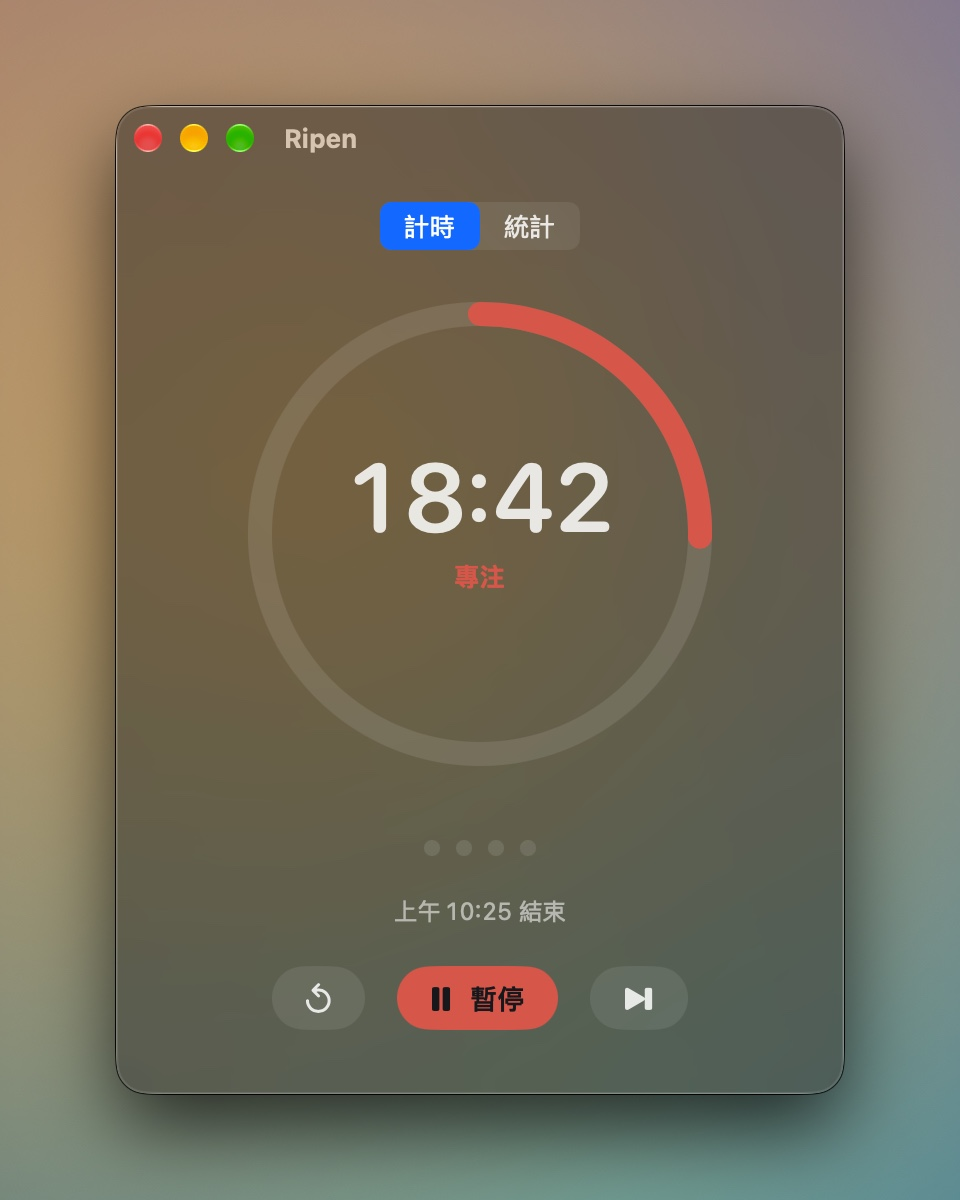
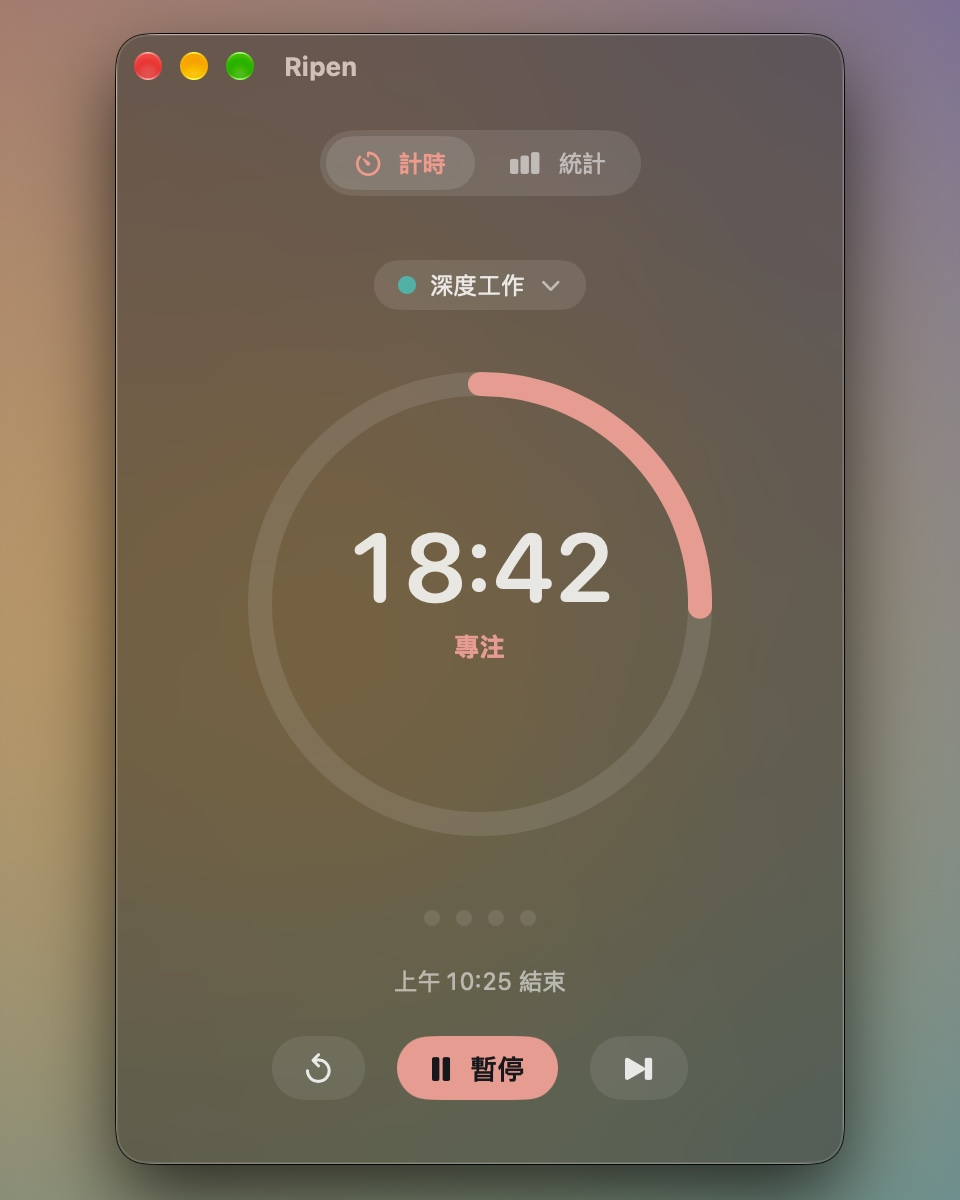
docs: redesign README showcases and publish updated website

diff --git a/scripts/generate-readme-assets.swift b/scripts/generate-readme-assets.swift
@@ -1,0 +1,101 @@
+#!/usr/bin/env swift
+import AppKit
+
+// 只裁切真實截圖的背景並排版，保留介面與成果卡原貌；不依賴拍攝副本。
+let root = URL(fileURLWithPath: #filePath).deletingLastPathComponent().deletingLastPathComponent()
+let paper = NSColor(srgbRed: 0.94, green: 0.95, blue: 0.93, alpha: 1)
+let ink = NSColor(srgbRed: 0.15, green: 0.24, blue: 0.20, alpha: 1)
+let muted = NSColor(srgbRed: 0.37, green: 0.44, blue: 0.40, alpha: 1)
+
+func load(_ path: String, crop: CGRect? = nil) throws -> NSImage {
+    let url = root.appendingPathComponent(path)
+    guard let source = NSImage(contentsOf: url),
+          let cgImage = source.cgImage(forProposedRect: nil, context: nil, hints: nil),
+          let pixels = crop.map({ cgImage.cropping(to: $0) }) ?? cgImage else {
+        throw NSError(domain: "ReadmeAssets", code: 1, userInfo: [NSLocalizedDescriptionKey: "無法讀取圖片：\(path)"])
+    }
+    return NSImage(cgImage: pixels, size: NSSize(width: pixels.width, height: pixels.height))
+}
+
+func text(_ string: String, _ x: CGFloat, _ y: CGFloat, size: CGFloat, color: NSColor = ink) {
+    (string as NSString).draw(at: NSPoint(x: x, y: y), withAttributes: [
+        .font: NSFont.systemFont(ofSize: size, weight: .medium), .foregroundColor: color
+    ])
+}
+
+// 對每張來源維持等比縮放，圓角只沿真實視窗邊界裁切。
+func place(_ source: NSImage, x: CGFloat, y: CGFloat, width: CGFloat, radius: CGFloat, attachedToTop: Bool = false) {
+    let rect = NSRect(x: x, y: y, width: width, height: width * source.size.height / source.size.width)
+    NSGraphicsContext.saveGraphicsState()
+    let shape = NSBezierPath(roundedRect: rect, xRadius: radius, yRadius: radius)
+    if attachedToTop {
+        shape.appendRect(NSRect(x: rect.minX, y: rect.minY, width: rect.width, height: rect.height / 2))
+    }
+    let shadow = NSShadow()
+    shadow.shadowColor = NSColor.black.withAlphaComponent(0.14)
+    shadow.shadowBlurRadius = 24
+    shadow.shadowOffset = NSSize(width: 0, height: 10)
+    shadow.set()
+    NSColor.white.setFill()
+    shape.fill()
+    NSGraphicsContext.restoreGraphicsState()
+    NSGraphicsContext.saveGraphicsState()
+    shape.addClip()
+    source.draw(in: rect, from: .zero, operation: .sourceOver, fraction: 1, respectFlipped: true, hints: nil)
+    NSGraphicsContext.restoreGraphicsState()
+}
+
+func render(_ name: String, language: String, height: Int, draw: () throws -> Void) throws {
+    let bitmap = NSBitmapImageRep(bitmapDataPlanes: nil, pixelsWide: 1600, pixelsHigh: height,
+                                  bitsPerSample: 8, samplesPerPixel: 4, hasAlpha: true,
+                                  isPlanar: false, colorSpaceName: .deviceRGB, bytesPerRow: 0, bitsPerPixel: 0)!
+    NSGraphicsContext.saveGraphicsState()
+    let context = NSGraphicsContext(bitmapImageRep: bitmap)!
+    context.cgContext.translateBy(x: 0, y: CGFloat(height))
+    context.cgContext.scaleBy(x: 1, y: -1)
+    NSGraphicsContext.current = NSGraphicsContext(cgContext: context.cgContext, flipped: true)
+    NSGraphicsContext.current!.imageInterpolation = .high
+    paper.setFill()
+    NSRect(x: 0, y: 0, width: 1600, height: height).fill()
+    try draw()
+    NSGraphicsContext.restoreGraphicsState()
+    let path = "docs/images/\(language)/\(name).png"
+    try bitmap.representation(using: .png, properties: [:])!.write(to: root.appendingPathComponent(path))
+    print(path)
+}
+
+for language in ["en", "zh-Hant"] {
+    let prefix = "docs/images/\(language)"
+    let window = CGRect(x: 115, y: 33, width: 730, height: 1132)
+    let main = try load("\(prefix)/main-white.jpg", crop: window)
+    let floating = try load("\(prefix)/floating-medium.jpg", crop: CGRect(x: 160, y: 160, width: 560, height: 320))
+    let notch = try load("\(prefix)/notch-expanded.jpg", crop: CGRect(x: 440, y: 0, width: 720, height: 312))
+    try render("presentation", language: language, height: 1000) {
+        text("A little space for focus.", 80, 52, size: 54)
+        place(main, x: 112, y: 176, width: 470, radius: 24)
+        text("Main window", 112, 930, size: 28, color: muted)
+        text("Notch island", 865, 178, size: 28, color: muted)
+        place(notch, x: 865, y: 232, width: 560, radius: 40, attachedToTop: true)
+        text("Floating window", 865, 540, size: 28, color: muted)
+        place(floating, x: 865, y: 594, width: 560, radius: 50)
+    }
+    let stats = try load("\(prefix)/stats.jpg", crop: window)
+    let detail = try load("\(prefix)/project-detail.jpg", crop: window)
+    try render("projects", language: language, height: 1140) {
+        text("See where your time goes.", 80, 52, size: 54)
+        text("Your week", 136, 156, size: 30, color: muted)
+        place(stats, x: 136, y: 212, width: 530, radius: 26)
+        text("Your project", 870, 226, size: 30, color: muted)
+        place(detail, x: 870, y: 282, width: 470, radius: 24)
+    }
+    let web = language == "en" ? "website/assets/en" : "website/assets"
+    let square = try load("\(web)/recap-square.png")
+    let portrait = try load("\(web)/recap-portrait.png")
+    try render("recap-layouts", language: language, height: 1040) {
+        text("Time well spent, made into a card.", 80, 52, size: 54)
+        place(square, x: 110, y: 260, width: 660, radius: 12)
+        place(portrait, x: 1010, y: 180, width: 420, radius: 12)
+        text("Square · 1:1", 110, 956, size: 30, color: muted)
+        text("Portrait · 9:16", 1010, 956, size: 30, color: muted)
+    }
+}

diff --git a/website/index.html b/website/index.html
@@ -77,6 +77,29 @@
       </div>
     </section>
 
+    <section class="project-gallery wrap section-space" aria-labelledby="projects-title">
+      <div class="project-story">
+        <div class="story-copy">
+          <h2 id="projects-title">每一段投入，<br>都看得見。</h2>
+          <p>工作、閱讀，或正在學的新事物。把專注分給不同分類，看看這一週，時間花在哪裡。</p>
+          <p>今天的投入、七天的節奏、一路累積的時間，都留在你的 Mac。</p>
+        </div>
+        <div class="statistics-scene"><img src="assets/stats.jpg" data-src-en="assets/en/stats.jpg" width="960" height="1200" loading="lazy" alt="分類統計：依代表色呈現最近七天的專注；展示資料"></div>
+      </div>
+      <div class="recap-story">
+        <div class="recap-scene" aria-label="方形與直式成果卡">
+          <img class="recap-square" src="assets/recap-square.png" data-src-en="assets/en/recap-square.png" width="1080" height="1080" loading="lazy" alt="方形分類成果卡；展示資料">
+          <img class="recap-portrait" src="assets/recap-portrait.png" data-src-en="assets/en/recap-portrait.png" width="1080" height="1920" loading="lazy" alt="直式分類成果卡；展示資料">
+        </div>
+        <div class="story-copy">
+          <h2>把累積，<br>留成一張卡。</h2>
+          <p>一個分類，一張成果卡。把持續投入的時間，存成自己看得見的成果。</p>
+          <p>選方形或直式，存成圖片、複製，或透過系統分享選單傳出去。</p>
+        </div>
+      </div>
+      <p class="gallery-note">畫面中的分類與專注紀錄為展示資料。</p>
+    </section>
+
     <section class="download-section wrap" id="download" aria-labelledby="download-title">
       <div><img class="download-icon" src="assets/app-icon.png" alt="" width="80" height="80" loading="lazy"><h2 id="download-title">下一段專注，<br>留給 Ripen。</h2><p>免費使用，不需要帳號。<br>如果它剛好幫上忙，再請我喝杯咖啡。</p></div>
       <div class="download-info"><div class="download-status"><span aria-hidden="true"></span>Mac 版現已開放下載</div><p>下載後打開 DMG，將 Ripen 拖進「應用程式」。<br>安裝後可從 App 選單手動檢查更新。</p><a class="button button-primary" href="https://github.com/latteine1217/ripen/releases/download/v0.2.0/Ripen-0.2.0.dmg">下載 Ripen 0.2.0</a><dl><div><dt>適用系統</dt><dd>macOS 14 Sonoma 以上</dd></div><div><dt>支援晶片</dt><dd>Apple silicon 與 Intel</dd></div><div><dt>介面語言</dt><dd>繁體中文、English</dd></div></dl><p class="install-note">目前版本尚未經 Apple 公證。首次開啟可能需要到「系統設定 › 隱私權與安全性」允許開啟。</p><p class="install-note"><a href="https://github.com/latteine1217/ripen/releases">查看所有版本與更新說明</a></p></div>

diff --git a/website/script.js b/website/script.js
@@ -1,5 +1,19 @@
 // 保留原始文字節點，切換語言時不重建連結、圖示或互動元件。
 const englishTranslations = new Map(Object.entries({
+  "每一段投入，": "See the time",
+  "都看得見。": "you put in.",
+  "工作、閱讀，或正在學的新事物。把專注分給不同分類，看看這一週，時間花在哪裡。": "Work, reading, or something you’re learning. Give each focus a project, and see where your time went this week.",
+  "今天的投入、七天的節奏、一路累積的時間，都留在你的 Mac。": "Today’s effort, your weekly rhythm, and all the time you’ve put in. Kept on your Mac.",
+  "把累積，": "Time well spent,",
+  "留成一張卡。": "made into a card.",
+  "一個分類，一張成果卡。把持續投入的時間，存成自己看得見的成果。": "One project, one recap card. Turn the time you keep putting in into something you can see.",
+  "選方形或直式，存成圖片、複製，或透過系統分享選單傳出去。": "Choose square or portrait. Save an image, copy it, or send it through the macOS share menu.",
+  "畫面中的分類與專注紀錄為展示資料。": "Projects and focus history shown here are demonstration data.",
+  "分類統計：依代表色呈現最近七天的專注；展示資料": "Project statistics: seven days of focuses stacked by project color; demonstration data",
+  "方形與直式成果卡": "Square and portrait recap cards",
+  "方形分類成果卡；展示資料": "Square project recap card; demonstration data",
+  "直式分類成果卡；展示資料": "Portrait project recap card; demonstration data",
+
   "Ripen 是原生 macOS 番茄鐘。收進瀏海、拖成懸浮窗，到點後繼續專注。免費使用，不需要帳號，專注紀錄留在你的 Mac。": "Ripen is a native macOS Pomodoro timer. Tuck it into the notch, float it above your work, and keep focusing past zero. Free to use, with no account. Your focus history stays on your Mac.",
   "Ripen — 留一點空間，給專注。": "Ripen — A little space for focus.",
   "跳至主要內容": "Skip to main content",

diff --git a/website/styles.css b/website/styles.css
@@ -14,3 +14,7 @@
 
 .language-picker:not([hidden]){display:inline-flex;align-items:center}.language-picker select{font:inherit;color:var(--ink);background:transparent;border:1px solid #c4cfba;border-radius:8px;padding:8px 6px;cursor:pointer;max-width:125px}.language-picker select:focus-visible{outline:3px solid var(--coral);outline-offset:5px}
 @media(max-width:680px){.site-header{height:auto;min-height:86px;gap:12px;flex-wrap:wrap;padding-block:18px}.site-header nav{gap:12px;flex-wrap:wrap}.language-picker select{max-width:110px}html[lang="en"] .mode-tab strong{font-size:12px}html[lang="en"] .hero h1{font-size:42px}}
+
+.project-gallery{padding-top:0}.project-story,.recap-story{display:grid;grid-template-columns:minmax(0,1fr) minmax(0,1fr);align-items:center;gap:88px}.story-copy{max-width:390px}.story-copy h2{margin-bottom:24px}.story-copy p{font-size:15px;color:var(--muted);margin-top:14px}.statistics-scene{display:flex;justify-content:center}.statistics-scene img{width:336px;border-radius:22px}.recap-story{grid-template-columns:minmax(0,1.2fr) minmax(0,1fr);gap:72px;margin-top:100px}.recap-story .story-copy{justify-self:end}.recap-scene{display:flex;align-items:center;gap:18px;padding:30px 0;min-width:0}.recap-scene img{min-width:0;border-radius:9px;box-shadow:0 12px 32px #253d3314}.recap-square{width:59%}.recap-portrait{width:calc(41% - 18px)}.gallery-note{margin-top:44px;text-align:center;font-size:12px;color:var(--muted)}
+@media(max-width:960px){.project-story{gap:40px}.recap-story{gap:40px;margin-top:72px}.statistics-scene img{width:300px}.story-copy p{font-size:14px}.recap-scene{gap:12px}.recap-portrait{width:calc(41% - 12px)}}
+@media(max-width:680px){.project-story,.recap-story{grid-template-columns:1fr;gap:30px}.story-copy{max-width:none}.story-copy h2{font-size:32px;margin-bottom:20px}.story-copy p{font-size:14px}.statistics-scene img{width:min(100%,320px)}.recap-story{margin-top:64px}.recap-story .story-copy{grid-row:1;justify-self:stretch}.recap-scene{padding:8px 0 18px;max-width:440px;width:100%;margin-inline:auto}.gallery-note{margin-top:24px;font-size:11px}}

diff --git a/README.md b/README.md
@@ -22,7 +22,7 @@ English · [繁體中文](README.zh-Hant.md)
 > v0.2.0 is out · [Release notes](https://github.com/latteine1217/ripen/releases/tag/v0.2.0)
 
 <p align="center">
-  <img src="docs/images/en/main-white.jpg" width="560" alt="Ripen in White appearance with the Deep Work project selected">
+  <img src="docs/images/en/presentation.png" width="1000" alt="Ripen main window, floating window and notch island">
 </p>
 
 Keep your timer in view and your attention on your work. Ripen follows your focus-and-break rhythm, organizes your time by project, and turns your progress into a recap card. Your focus history stays on your Mac.
@@ -35,10 +35,6 @@ Work, reading, or something you are learning can each have a project and a color
 
 You can start with Uncategorized. Change projects during a focus to move the whole focus to the new project; a choice made during a break applies to the next focus.
 
-<p align="center">
-  <img src="docs/images/en/main.jpg" width="440" alt="Glass timer window with the Deep Work project above the ring">
-</p>
-
 ### See where your time goes
 
 Statistics stacks your last seven days of focus time by project color, alongside today's focus count and minutes and each project's total. Open a project to see its total time, its last week and every completed focus, or choose a different color from the palette.
@@ -46,8 +42,7 @@ Statistics stacks your last seven days of focus time by project color, alongside
 If you no longer need a project, delete it from its detail page. After you confirm, its records move to Uncategorized, keeping their time and counts.
 
 <p align="center">
-  <img src="docs/images/en/stats.jpg" width="440" alt="Statistics overview with seven days of focus time by project color; demonstration data">
-  <img src="docs/images/en/project-detail.jpg" width="440" alt="Deep Work details with totals, color palette and completed focuses; demonstration data">
+  <img src="docs/images/en/projects.png" width="1000" alt="Weekly statistics and project details; demonstration data">
   <br><sub>Illustrative focus history for demonstration, not real user data.</sub>
 </p>
 
@@ -58,8 +53,7 @@ Every project with completed focuses, including Uncategorized, has a recap card 
 Once the records are saved and their undo period has passed, save the card as a PNG, copy the image, or use the macOS share menu. Refresh the card if its records change after you open it. To post on a social platform, you can save the image and upload it yourself.
 
 <p align="center">
-  <img src="docs/images/en/recap.jpg" width="440" alt="Square recap card preview with image export controls; demonstration data">
-  <img src="docs/images/en/recap-portrait.jpg" width="440" alt="Portrait project recap card preview; demonstration data">
+  <img src="docs/images/en/recap-layouts.png" width="1000" alt="Square and portrait recap cards; demonstration data">
   <br><sub>Recap cards use demonstration data, not real user records.</sub>
 </p>
 
@@ -68,17 +62,26 @@ Once the records are saved and their undo period has passed, save the card as a 
 Click the yellow button, or drag the timer ring out of the main window, to get a small always-on-top panel. Drag any corner to switch between three layouts; Ripen remembers where you left it.
 
 <p align="center">
-  <img src="docs/images/en/floating-small.jpg" width="300" alt="Small floating window">
-  <img src="docs/images/en/floating-medium.jpg" width="270" alt="Medium floating window">
-  <img src="docs/images/en/floating-large.jpg" width="250" alt="Large floating window">
+  <img src="docs/images/en/floating-medium.jpg" width="640" alt="Medium always-on-top floating window">
 </p>
+
+<details>
+<summary>See the other floating-window sizes</summary>
+
+<p align="center">
+  <img src="docs/images/en/floating-small.jpg" width="640" alt="Small floating window">
+</p>
+<p align="center">
+  <img src="docs/images/en/floating-large.jpg" width="480" alt="Large floating window">
+</p>
+
+</details>
 
 ### Tuck it into the notch
 
 Click the red button, or drag the main window up into the notch, and Ripen becomes a black island around the camera: progress on the left, time on the right. Hover to see the full controls; pull it down to bring the main window back. On a Mac without a notch, the island sits at the top center of the screen.
 
 <p align="center">
-  <img src="docs/images/en/notch.jpg" width="640" alt="Collapsed notch island">
   <img src="docs/images/en/notch-expanded.jpg" width="640" alt="Expanded notch island with controls">
 </p>
 
@@ -88,9 +91,14 @@ When the countdown reaches zero, Ripen plays a sound and keeps counting as `+mm:
 
 The main window, floating window and notch island briefly show the time you just spent and your project's total. During the following break, you can open that project's recap card directly.
 
+<details>
+<summary>See overtime in action</summary>
+
 <p align="center">
   <img src="docs/images/en/overtime.jpg" width="380" alt="Focus session in overtime showing +03:17 and a Done button">
 </p>
+
+</details>
 
 ## Everyday controls and settings
 

diff --git a/README.zh-Hant.md b/README.zh-Hant.md
@@ -22,7 +22,7 @@
 > v0.2.0 已發布 · [更新內容](https://github.com/latteine1217/ripen/releases/tag/v0.2.0)
 
 <p align="center">
-  <img src="docs/images/zh-Hant/main-white.jpg" width="560" alt="Ripen 暖瓷白主視窗，已選擇深度工作分類">
+  <img src="docs/images/zh-Hant/presentation.png" width="1000" alt="主視窗、懸浮窗與瀏海島的整體展示">
 </p>
 
 讓計時留在視線裡，把注意力留給手上的事。Ripen 跟著專注與休息的節奏走，讓你依分類累積投入、回顧一週，再把成果存成一張卡。所有專注紀錄只留在你的 Mac 上。
@@ -35,10 +35,6 @@
 
 可以選「未分類」直接開始。專注途中切換分類，整次專注會歸入新分類；休息時選擇的分類則用於下一次專注。
 
-<p align="center">
-  <img src="docs/images/zh-Hant/main.jpg" width="440" alt="玻璃外觀計時頁，圓環上方顯示深度工作分類">
-</p>
-
 ### 看見時間花在哪裡
 
 統計頁以分類代表色堆疊最近 7 天的專注時間，並列出今天的完成次數、分鐘數與各分類的累積。點進分類，就能查看它的總投入、最近一週與每一筆完成紀錄，也能從色盤更換代表色。
@@ -46,8 +42,7 @@
 不再需要某個分類時，可在詳情頁刪除；確認後，原有紀錄會移到「未分類」，時間與次數都會保留。
 
 <p align="center">
-  <img src="docs/images/zh-Hant/stats.jpg" width="440" alt="統計總覽，依分類代表色呈現七日專注時間；展示資料">
-  <img src="docs/images/zh-Hant/project-detail.jpg" width="440" alt="深度工作分類詳情，包含累積、色盤與完成紀錄；展示資料">
+  <img src="docs/images/zh-Hant/projects.png" width="1000" alt="七日統計與分類詳情；展示資料">
   <br><sub>統計畫面使用展示資料，非真實使用者紀錄。</sub>
 </p>
 
@@ -58,8 +53,7 @@
 紀錄儲存完成且已過復原期限後，即可存成 PNG、複製圖片，或使用 macOS 分享選單。若開卡後紀錄有變動，重新整理即可更新；要貼到社群平台，也可以先存圖再自行上傳。
 
 <p align="center">
-  <img src="docs/images/zh-Hant/recap.jpg" width="440" alt="方形成果卡預覽與圖片匯出操作；展示資料">
-  <img src="docs/images/zh-Hant/recap-portrait.jpg" width="440" alt="直式分類成果卡預覽；展示資料">
+  <img src="docs/images/zh-Hant/recap-layouts.png" width="1000" alt="方形與直式成果卡；展示資料">
   <br><sub>成果卡使用展示資料，非真實使用者紀錄。</sub>
 </p>
 
@@ -68,17 +62,26 @@
 按黃色按鈕，或把計時圓環從主視窗拖出來，就會變成置頂的小懸浮窗。拖曳任一角可以在三種版面之間切換，Ripen 會記住你放的位置。
 
 <p align="center">
-  <img src="docs/images/zh-Hant/floating-small.jpg" width="300" alt="小尺寸懸浮窗">
-  <img src="docs/images/zh-Hant/floating-medium.jpg" width="270" alt="中尺寸懸浮窗">
-  <img src="docs/images/zh-Hant/floating-large.jpg" width="250" alt="大尺寸懸浮窗">
+  <img src="docs/images/zh-Hant/floating-medium.jpg" width="640" alt="中尺寸置頂懸浮窗">
 </p>
+
+<details>
+<summary>查看其他懸浮窗尺寸</summary>
+
+<p align="center">
+  <img src="docs/images/zh-Hant/floating-small.jpg" width="640" alt="小尺寸懸浮窗">
+</p>
+<p align="center">
+  <img src="docs/images/zh-Hant/floating-large.jpg" width="480" alt="大尺寸懸浮窗">
+</p>
+
+</details>
 
 ### 收進瀏海
 
 按紅色按鈕，或把主視窗往上拖進瀏海，Ripen 就變成圍著鏡頭的黑色瀏海島：左邊是進度，右邊是時間。滑鼠移上去會展開完整控制，往下拉就變回主視窗。沒有瀏海的 Mac 上，瀏海島會出現在螢幕頂端中央。
 
 <p align="center">
-  <img src="docs/images/zh-Hant/notch.jpg" width="640" alt="收合的瀏海島">
   <img src="docs/images/zh-Hant/notch-expanded.jpg" width="640" alt="展開的瀏海島與控制按鈕">
 </p>
 
@@ -88,9 +91,14 @@
 
 完成後，主視窗、懸浮窗與瀏海島都會短暫顯示本次投入與分類累積。接下來的休息期間，可以直接開啟剛完成分類的成果卡。
 
+<details>
+<summary>查看超時畫面</summary>
+
 <p align="center">
   <img src="docs/images/zh-Hant/overtime.jpg" width="380" alt="專注超時，顯示 +03:17 與完成按鈕">
 </p>
+
+</details>
 
 ## 日常操作與設定
 
